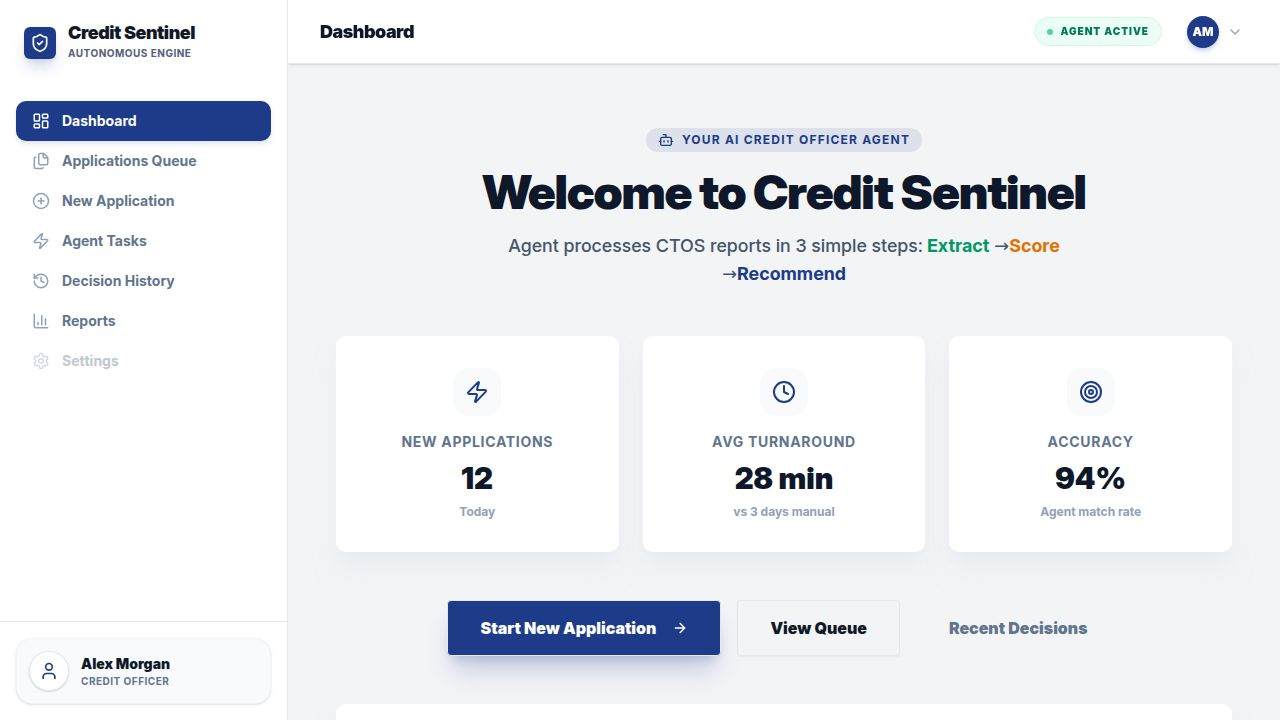
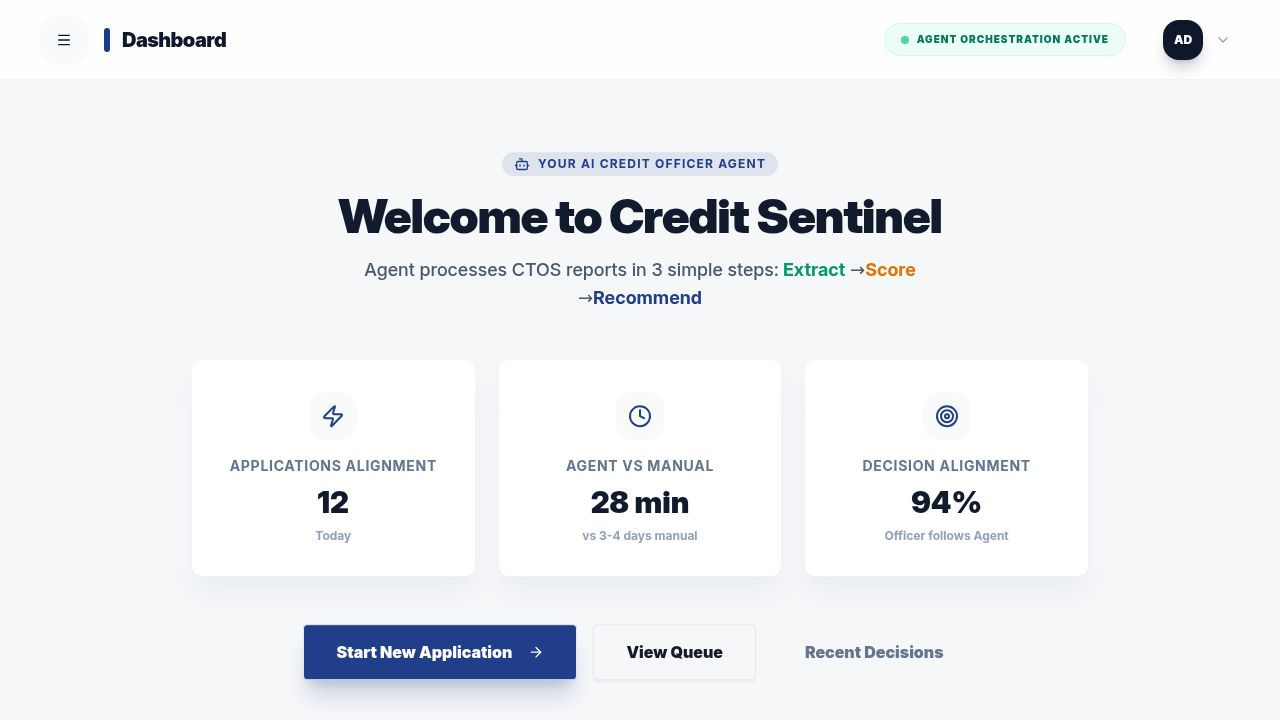
Update application to precisely match Chin Hin's credit scoring workflow
Refine UI/UX for Credit Sentinel platform, aligning field labels, confidence indicators, and mobile responsiveness with Chin Hin eForm v1.2. Update dashboard KPIs and decision screen microcopy.

Replit-Commit-Author: Agent
Replit-Commit-Session-Id: 1f0979f2-fb14-4a68-a972-79154f15a6be
Replit-Commit-Checkpoint-Type: full_checkpoint
Replit-Commit-Event-Id: b1bbfd8a-f83e-4560-9535-cd773fb972c6
Replit-Commit-Screenshot-Url: https://storage.googleapis.com/screenshot-production-us-central1/efa6b31c-ffe2-43ba-98e7-743ceab53374/1f0979f2-fb14-4a68-a972-79154f15a6be/cLo5nvx
Replit-Helium-Checkpoint-Created: true

diff --git a/client/src/pages/agent-pack.tsx b/client/src/pages/agent-pack.tsx
@@ -26,7 +26,7 @@ export default function AgentPack() {
     </div>
   );
 
-  const FieldRow = ({ label, value, confidence, warning }: { label: string, value: string, confidence?: string, warning?: boolean }) => (
+  const FieldRow = ({ label, value, confidence, warning }: { label: string, value: string, confidence?: "High" | "Medium" | "Low", warning?: boolean }) => (
     <div className="flex items-center justify-between py-2 border-b border-slate-50 last:border-0 px-2 group">
       <div className="space-y-0.5">
         <p className="text-[10px] font-bold text-slate-400 uppercase tracking-tight">{label}</p>
@@ -39,9 +39,11 @@ export default function AgentPack() {
         {confidence && (
           <Badge variant="outline" className={cn(
             "text-[8px] font-black h-4 px-1.5",
-            confidence === "High" ? "bg-emerald-50 text-emerald-700 border-emerald-100" : "bg-amber-50 text-amber-700 border-amber-100"
+            confidence === "High" ? "bg-emerald-50 text-emerald-700 border-emerald-100" : 
+            confidence === "Medium" ? "bg-amber-50 text-amber-700 border-amber-100" :
+            "bg-rose-50 text-rose-700 border-rose-100"
           )}>
-            {confidence}
+            {confidence} {confidence === "High" ? "✓" : confidence === "Medium" ? "⚠" : "✗"}
           </Badge>
         )}
         <div className="opacity-0 group-hover:opacity-100 transition-opacity flex items-center gap-1">
@@ -56,29 +58,38 @@ export default function AgentPack() {
     <Layout>
       <div className="space-y-6 max-w-[1600px] mx-auto">
         {/* Header */}
-        <div className="flex items-center justify-between border-b pb-4">
-          <div className="flex items-center gap-4">
-            <Link href="/applications">
-              <Button variant="ghost" size="icon"><ChevronLeft className="w-5 h-5"/></Button>
-            </Link>
-            <div>
-              <h1 className="text-2xl font-black tracking-tight">Agent Decision Pack</h1>
-              <p className="text-sm font-bold text-slate-500">
-                Customer: <span className="text-slate-900">ABC Trading Sdn Bhd</span> | Requested: <span className="text-slate-900">RM 500,000</span>
-              </p>
+        <div className="flex flex-col gap-4 border-b pb-4">
+          <div className="flex items-center justify-between">
+            <div className="flex items-center gap-4">
+              <Link href="/applications">
+                <Button variant="ghost" size="icon"><ChevronLeft className="w-5 h-5"/></Button>
+              </Link>
+              <div>
+                <h1 className="text-2xl font-black tracking-tight">Agent Decision Pack</h1>
+                <p className="text-sm font-bold text-slate-500 italic">
+                  Chin Hin Credit Scoring Form (auto-filled by agent) ✓ Matches your existing eForm structure exactly
+                </p>
+              </div>
+            </div>
+            <div className="flex items-center gap-3">
+               <Button variant="outline" className="font-bold">Review Fields</Button>
+               <Button onClick={() => setLocation(`/applications/${id}/decision`)} className="bg-[#1E3A8A] hover:bg-[#1E3A8A]/90 font-black shadow-lg shadow-primary/20">
+                  Confirm Decision <ArrowRight className="ml-2 w-4 h-4" />
+               </Button>
             </div>
           </div>
-          <div className="flex items-center gap-3">
-             <Button variant="outline" className="font-bold">Review Fields</Button>
-             <Button onClick={() => setLocation(`/applications/${id}/decision`)} className="font-black shadow-lg shadow-primary/20">
-                Approve As-Is <ArrowRight className="ml-2 w-4 h-4" />
-             </Button>
+          <div className="bg-slate-900 text-white p-3 rounded-2xl flex items-center justify-between px-6 shadow-xl">
+             <div className="flex items-center gap-3">
+                <ShieldCheck className="w-5 h-5 text-primary" />
+                <span className="text-sm font-black uppercase tracking-wider">Chin Hin Credit Scoring Form Replica</span>
+             </div>
+             <Badge className="bg-primary/20 text-primary border-none font-black text-[10px]">OFFICIAL FORM V1.2</Badge>
           </div>
         </div>
 
-        <div className="grid grid-cols-1 lg:grid-cols-4 gap-6 h-[calc(100vh-200px)] min-h-[700px]">
-          {/* Left: CTOS Preview */}
-          <Card className="flex flex-col border-slate-200 shadow-sm overflow-hidden">
+        <div className="grid grid-cols-1 lg:grid-cols-4 gap-6 min-h-[700px]">
+          {/* Left: CTOS Preview - Order changed for mobile: 3rd */}
+          <Card className="flex flex-col border-slate-200 shadow-sm overflow-hidden order-3 lg:order-1 h-[400px] lg:h-auto">
              <CardHeader className="bg-slate-50 border-b py-3">
                 <CardTitle className="text-xs font-black uppercase tracking-widest text-slate-500">CTOS PDF Preview</CardTitle>
              </CardHeader>
@@ -97,8 +108,8 @@ export default function AgentPack() {
              </CardContent>
           </Card>
 
-          {/* Center: Scoring Form Replica */}
-          <Card className="lg:col-span-2 flex flex-col border-slate-200 shadow-sm overflow-hidden">
+          {/* Center: Scoring Form Replica - Order changed for mobile: 1st */}
+          <Card className="lg:col-span-2 flex flex-col border-slate-200 shadow-sm overflow-hidden order-1 lg:order-2">
              <CardHeader className="bg-slate-50 border-b py-3 flex flex-row items-center justify-between">
                 <CardTitle className="text-xs font-black uppercase tracking-widest text-slate-500">Chin Hin Scoring Form Replica</CardTitle>
                 <Badge variant="outline" className="bg-white border-primary/20 text-primary font-black">MVP V1.0</Badge>
@@ -109,11 +120,11 @@ export default function AgentPack() {
                    <div className="p-4 flex gap-8">
                       <div className="flex items-center gap-2">
                          <div className="w-4 h-4 rounded-full border border-slate-300" />
-                         <span className="text-xs font-bold text-slate-400">New Credit</span>
+                         <span className="text-xs font-bold text-slate-400">New Credit ○</span>
                       </div>
                       <div className="flex items-center gap-2">
                          <div className="w-4 h-4 rounded-full border-4 border-primary" />
-                         <span className="text-xs font-bold text-slate-900">Renewal</span>
+                         <span className="text-xs font-bold text-slate-900">Renewal ●</span>
                       </div>
                    </div>
 
@@ -124,25 +135,57 @@ export default function AgentPack() {
                    </div>
 
                    <SectionHeader title="Customer Information" />
-                   <div className="grid grid-cols-2">
-                      <FieldRow label="Customer" value="ABC Trading Sdn Bhd" confidence="High" />
-                      <FieldRow label="Reg No" value="123456-X" confidence="High" />
+                   <div className="grid grid-cols-1 md:grid-cols-2">
+                      <FieldRow label="Customer Name" value="ABC Trading Sdn Bhd" confidence="High" />
+                      <FieldRow label="Registration No" value="123456-X" confidence="High" />
                       <FieldRow label="Industry" value="Trading" confidence="Medium" />
                       <FieldRow label="Address" value="Lot 1, Jalan ABC, KL" confidence="High" />
                    </div>
 
                    <SectionHeader title="CCRIS/CTOS for Company (25%)" />
-                   <div className="grid grid-cols-2">
+                   <div className="grid grid-cols-1 md:grid-cols-2">
                       <FieldRow label="Paid-up Capital" value="RM 1,000,000" confidence="High" />
-                      <FieldRow label="Directors" value="3" confidence="High" />
-                      <FieldRow label="Litigation" value="No" confidence="High" />
+                      <FieldRow label="No. of Directors" value="3" confidence="High" />
+                      <FieldRow label="Litigation Status" value="None" confidence="High" />
+                      <div className="flex items-end justify-end p-2">
+                        <span className="text-[10px] font-black text-primary uppercase tracking-widest">Weight: 25%</span>
+                      </div>
                    </div>
 
                    <SectionHeader title="Financial Information (25%)" />
-                   <div className="grid grid-cols-2">
+                   <div className="grid grid-cols-1 md:grid-cols-2">
                       <FieldRow label="Net Worth" value="RM 1,250,000" confidence="Medium" />
                       <FieldRow label="Profit/Loss" value="RM 250,000" confidence="High" />
-                      <FieldRow label="Gearing Ratio" value="1.2" confidence="High" warning={true} />
+                      <FieldRow label="Gearing Ratio" value="1.2x" confidence="High" warning={true} />
+                      <div className="flex items-end justify-end p-2">
+                        <span className="text-[10px] font-black text-primary uppercase tracking-widest">Weight: 25%</span>
+                      </div>
+                   </div>
+
+                   <SectionHeader title="Pledged/Collateral (20%)" />
+                   <div className="p-4 bg-slate-50/50">
+                      <div className="border rounded-xl bg-white overflow-hidden">
+                         <table className="w-full text-[10px]">
+                            <thead className="bg-slate-50 border-b">
+                               <tr>
+                                  <th className="p-2 text-left font-black">Facility Type</th>
+                                  <th className="p-2 text-right font-black">Limit (RM)</th>
+                                  <th className="p-2 text-right font-black">Outstanding (RM)</th>
+                               </tr>
+                            </thead>
+                            <tbody className="divide-y">
+                               <tr>
+                                  <td className="p-2 font-bold">Term Loan</td>
+                                  <td className="p-2 text-right">500,000</td>
+                                  <td className="p-2 text-right">420,000</td>
+                               </tr>
+                            </tbody>
+                         </table>
+                      </div>
+                      <div className="flex justify-between items-center mt-2">
+                        <p className="text-[9px] text-slate-400 font-bold uppercase tracking-tight italic">Matches Chin Hin eForm v1.2</p>
+                        <p className="text-[10px] font-black text-primary uppercase tracking-widest">Weight: 20%</p>
+                      </div>
                    </div>
 
                    <SectionHeader title="Audit Trail" />
@@ -164,8 +207,8 @@ export default function AgentPack() {
              </ScrollArea>
           </Card>
 
-          {/* Right: Agent Recommendation */}
-          <Card className="border-primary/20 bg-primary/5 shadow-none overflow-hidden h-fit">
+          {/* Right: Agent Recommendation - Order changed for mobile: 2nd */}
+          <Card className="border-primary/20 bg-primary/5 shadow-none overflow-hidden h-fit order-2 lg:order-3">
              <CardHeader className="bg-primary/10 border-b border-primary/10 py-3">
                 <CardTitle className="text-xs font-black uppercase tracking-widest text-primary flex items-center gap-2">
                    <Bot className="w-4 h-4" /> Agent Recommends

diff --git a/client/src/pages/dashboard.tsx b/client/src/pages/dashboard.tsx
@@ -23,9 +23,9 @@ import { cn } from "@/lib/utils";
 
 export default function Dashboard() {
   const kpis = [
-    { title: "New Applications", value: "12", sub: "Today", icon: Zap },
-    { title: "Avg Turnaround", value: "28 min", sub: "vs 3 days manual", icon: Clock },
-    { title: "Accuracy", value: "94%", sub: "Agent match rate", icon: Target },
+    { title: "Applications Alignment", value: "12", sub: "Today", icon: Zap },
+    { title: "Agent vs Manual", value: "28 min", sub: "vs 3-4 days manual", icon: Clock },
+    { title: "Decision Alignment", value: "94%", sub: "Officer follows Agent", icon: Target },
   ];
 
   const recentActivity = [
@@ -58,18 +58,36 @@ export default function Dashboard() {
 
         {/* KPI Grid */}
         <div className="grid grid-cols-1 md:grid-cols-3 gap-6">
-          {kpis.map((kpi, i) => (
-            <Card key={i} className="border-none shadow-xl shadow-slate-200/50">
-              <CardContent className="p-8 text-center space-y-2">
-                <div className="w-12 h-12 rounded-2xl bg-slate-50 flex items-center justify-center mx-auto mb-4">
-                  <kpi.icon className="w-6 h-6 text-primary" />
-                </div>
-                <h3 className="text-sm font-bold text-slate-500 uppercase tracking-wider">{kpi.title}</h3>
-                <p className="text-3xl font-black text-slate-900">{kpi.value}</p>
-                <p className="text-xs text-slate-400 font-bold">{kpi.sub}</p>
-              </CardContent>
-            </Card>
-          ))}
+          <Card className="border-none shadow-xl shadow-slate-200/50">
+            <CardContent className="p-8 text-center space-y-2">
+              <div className="w-12 h-12 rounded-2xl bg-slate-50 flex items-center justify-center mx-auto mb-4">
+                <Zap className="w-6 h-6 text-primary" />
+              </div>
+              <h3 className="text-[10px] font-black text-slate-400 uppercase tracking-widest leading-tight">Applications Alignment</h3>
+              <p className="text-3xl font-black text-slate-900">12</p>
+              <p className="text-[10px] text-slate-400 font-bold uppercase tracking-tight">Today</p>
+            </CardContent>
+          </Card>
+          <Card className="border-none shadow-xl shadow-slate-200/50">
+            <CardContent className="p-8 text-center space-y-2">
+              <div className="w-12 h-12 rounded-2xl bg-slate-50 flex items-center justify-center mx-auto mb-4">
+                <Clock className="w-6 h-6 text-primary" />
+              </div>
+              <h3 className="text-[10px] font-black text-slate-400 uppercase tracking-widest leading-tight">Agent vs Manual</h3>
+              <p className="text-3xl font-black text-slate-900">28 min</p>
+              <p className="text-[10px] text-slate-400 font-bold uppercase tracking-tight">vs 3-4 days manual</p>
+            </CardContent>
+          </Card>
+          <Card className="border-none shadow-xl shadow-slate-200/50">
+            <CardContent className="p-8 text-center space-y-2">
+              <div className="w-12 h-12 rounded-2xl bg-slate-50 flex items-center justify-center mx-auto mb-4">
+                <Target className="w-6 h-6 text-primary" />
+              </div>
+              <h3 className="text-[10px] font-black text-slate-400 uppercase tracking-widest leading-tight">Decision Alignment</h3>
+              <p className="text-3xl font-black text-slate-900">94%</p>
+              <p className="text-[10px] text-slate-400 font-bold uppercase tracking-tight">Officer follows Agent</p>
+            </CardContent>
+          </Card>
         </div>
 
         {/* Action Buttons */}

diff --git a/client/src/pages/applications-queue.tsx b/client/src/pages/applications-queue.tsx
@@ -151,13 +151,13 @@ export default function ApplicationsQueue() {
                     <TableCell className="font-bold text-slate-700">RM {app.limit.toLocaleString()}</TableCell>
                     <TableCell>
                       {app.risk === "Low" ? (
-                        <Badge variant="outline" className="bg-emerald-50 text-emerald-700 border-emerald-200 font-bold px-2 py-0.5">LOW</Badge>
+                        <Badge variant="outline" className="bg-emerald-50 text-emerald-700 border-emerald-200 font-bold px-2 py-0.5 uppercase tracking-widest text-[9px]">Risk: LOW</Badge>
                       ) : app.risk === "Moderate" ? (
-                        <Badge variant="outline" className="bg-amber-50 text-amber-700 border-amber-200 font-bold px-2 py-0.5">MODERATE</Badge>
+                        <Badge variant="outline" className="bg-amber-50 text-amber-700 border-amber-200 font-bold px-2 py-0.5 uppercase tracking-widest text-[9px]">Risk: MEDIUM</Badge>
                       ) : app.risk === "High" ? (
-                        <Badge variant="outline" className="bg-rose-50 text-rose-700 border-rose-200 font-bold px-2 py-0.5">HIGH</Badge>
+                        <Badge variant="outline" className="bg-rose-50 text-rose-700 border-rose-200 font-bold px-2 py-0.5 uppercase tracking-widest text-[9px]">Risk: HIGH</Badge>
                       ) : (
-                        <Badge variant="outline" className="bg-slate-100 text-slate-500 border-slate-200 font-bold px-2 py-0.5">N/A</Badge>
+                        <Badge variant="outline" className="bg-slate-100 text-slate-500 border-slate-200 font-bold px-2 py-0.5 uppercase tracking-widest text-[9px]">Risk: N/A</Badge>
                       )}
                     </TableCell>
                     <TableCell>
@@ -172,11 +172,13 @@ export default function ApplicationsQueue() {
                       </div>
                     </TableCell>
                     <TableCell>
-                      <Badge variant="secondary" className={cn(
-                        "font-bold text-[10px] uppercase tracking-wider",
-                        app.officerStatus === "In Review" ? "bg-indigo-50 text-indigo-700 border-indigo-100" : "bg-slate-100 text-slate-500"
+                      <Badge variant="outline" className={cn(
+                        "font-black text-[9px] uppercase tracking-widest px-2 py-0.5",
+                        app.officerStatus === "In Review" ? "bg-indigo-50 text-indigo-700 border-indigo-100" : 
+                        app.officerStatus === "Completed" ? "bg-emerald-50 text-emerald-700 border-emerald-100" :
+                        "bg-slate-100 text-slate-500 border-slate-200"
                       )}>
-                        {app.officerStatus}
+                        Status: {app.officerStatus}
                       </Badge>
                     </TableCell>
                     <TableCell className="text-slate-400 text-xs font-bold">{app.age}</TableCell>

diff --git a/client/src/pages/decision-approval.tsx b/client/src/pages/decision-approval.tsx
@@ -107,7 +107,10 @@ export default function DecisionApproval() {
                             {decision || "Pending"}
                          </p>
                          {isOverride && (
-                           <Badge variant="outline" className="bg-rose-50 text-rose-700 border-rose-200 h-5 px-2 text-[9px] font-black tracking-widest">OVERRIDE</Badge>
+                           <div className="flex flex-col items-end gap-1">
+                             <Badge variant="outline" className="bg-rose-50 text-rose-700 border-rose-200 h-5 px-2 text-[9px] font-black tracking-widest uppercase">Agent Match: ✗ Override</Badge>
+                             <p className="text-[9px] text-rose-600 font-bold uppercase italic">Officer decision ≠ agent</p>
+                           </div>
                          )}
                       </div>
                    </div>
@@ -121,9 +124,9 @@ export default function DecisionApproval() {
             {/* Selection Grid */}
             <div className="grid grid-cols-1 sm:grid-cols-3 gap-4">
                {[
-                 { id: "approve", label: "Approve", icon: CheckCircle2, color: "emerald", desc: "Customer is suitable." },
-                 { id: "reject", label: "Reject", icon: XCircle, color: "rose", desc: "Risk level too high." },
-                 { id: "review", label: "KIV / Review", icon: AlertCircle, color: "amber", desc: "Need more info." }
+                 { id: "approve", label: "Approve", icon: CheckCircle2, color: "emerald", desc: "Sales notified immediately, customer onboarded" },
+                 { id: "reject", label: "Reject", icon: XCircle, color: "rose", desc: "Customer receives rejection notice + reason" },
+                 { id: "review", label: "KIV / Review", icon: AlertCircle, color: "amber", desc: "Follow-up task created, Sales notified" }
                ].map((opt) => (
                  <div 
                    key={opt.id}

diff --git a/client/src/pages/reports.tsx b/client/src/pages/reports.tsx
@@ -109,14 +109,22 @@ export default function ReportsPage() {
               <TableHeader className="bg-slate-50/50">
                 <TableRow>
                   <TableHead className="font-bold text-slate-900">Customer</TableHead>
+                  <TableHead className="font-bold text-slate-900">Agent Match %</TableHead>
                   <TableHead className="font-bold text-slate-900">Approved Limit</TableHead>
                   <TableHead className="text-right font-bold text-slate-900">Approval Date</TableHead>
                 </TableRow>
               </TableHeader>
               <TableBody>
-                {topApprovals.map((row, i) => (
+                {[
+                  { customer: "Global Logistics Partners", match: "98%", limit: "RM 1,200,000", date: "2023-10-24" },
+                  { customer: "Mega Build Construction", match: "94%", limit: "RM 850,000", date: "2023-10-22" },
+                  { customer: "Sunrise Properties", match: "100%", limit: "RM 750,000", date: "2023-10-20" },
+                ].map((row, i) => (
                   <TableRow key={i} className="hover:bg-slate-50 transition-colors">
                     <TableCell className="font-bold text-slate-700">{row.customer}</TableCell>
+                    <TableCell>
+                       <Badge variant="outline" className="bg-emerald-50 text-emerald-700 border-emerald-100 font-black text-[10px]">{row.match}</Badge>
+                    </TableCell>
                     <TableCell className="font-black text-primary">{row.limit}</TableCell>
                     <TableCell className="text-right text-slate-400 font-bold text-xs">{row.date}</TableCell>
                   </TableRow>

diff --git a/client/src/components/layout/Layout.tsx b/client/src/components/layout/Layout.tsx
@@ -112,10 +112,14 @@ export default function Layout({ children }: { children: React.ReactNode }) {
             <Button variant="ghost" size="icon" className="h-12 w-12 rounded-2xl bg-slate-50 hover:bg-slate-100" onClick={() => setIsMobileOpen(true)}>
               <Menu className="w-6 h-6" />
             </Button>
-            <h2 className="text-xl font-black text-slate-900 tracking-tight flex items-center gap-3">
-              <div className="w-1.5 h-6 bg-primary rounded-full hidden sm:block" />
-              {navigation.find((n) => n.href === location || (n.href !== '/' && location.startsWith(n.href)))?.name || "Credit Sentinel"}
-            </h2>
+            <div className="flex items-center gap-2">
+              <img src="https://chinhingroup.com/wp-content/uploads/2021/01/logo-chin-hin-group.png" alt="Chin Hin" className="h-8 w-auto hidden sm:block" />
+              <div className="w-px h-6 bg-slate-200 mx-2 hidden sm:block" />
+              <h2 className="text-xl font-black text-slate-900 tracking-tight flex items-center gap-3">
+                <div className="w-1.5 h-6 bg-primary rounded-full hidden sm:block" />
+                {navigation.find((n) => n.href === location || (n.href !== '/' && location.startsWith(n.href)))?.name || "Credit Sentinel"}
+              </h2>
+            </div>
           </div>
 
           <div className="flex items-center gap-6">

diff --git a/client/src/pages/new-application.tsx b/client/src/pages/new-application.tsx
@@ -97,10 +97,13 @@ export default function NewApplication() {
                           <p className="font-black text-slate-900 text-lg">Drop CTOS PDF here</p>
                           <p className="text-sm text-slate-400 font-medium mt-1">or Browse files</p>
                         </div>
-                        <div className="pt-4 flex justify-center gap-4 text-[10px] font-black text-slate-400 uppercase tracking-widest">
-                           <span>Supported: PDF Only</span>
-                           <span className="w-1.5 h-1.5 rounded-full bg-slate-200 mt-1" />
-                           <span>Max: 15MB</span>
+                        <div className="pt-4 flex flex-col items-center gap-2">
+                           <div className="flex justify-center gap-4 text-[10px] font-black text-slate-400 uppercase tracking-widest">
+                              <span>Supported: CTOS PDF Only</span>
+                              <span className="w-1.5 h-1.5 rounded-full bg-slate-200 mt-1" />
+                              <span>Max: 15MB</span>
+                           </div>
+                           <p className="text-[10px] text-amber-600 font-bold italic">Supported: CTOS PDF reports only</p>
                         </div>
                       </div>
                     )}

diff --git a/client/index.html b/client/index.html
@@ -18,6 +18,7 @@
     <link rel="preconnect" href="https://fonts.googleapis.com">
     <link rel="preconnect" href="https://fonts.gstatic.com" crossorigin>
     <link href="https://fonts.googleapis.com/css2?family=Inter:ital,opsz,wght@0,14..32,100..900;1,14..32,100..900&display=swap" rel="stylesheet">
+    <title>Credit Sentinel – Chin Hin Credit Control</title>
   </head>
   <body>
     <div id="root"></div>
